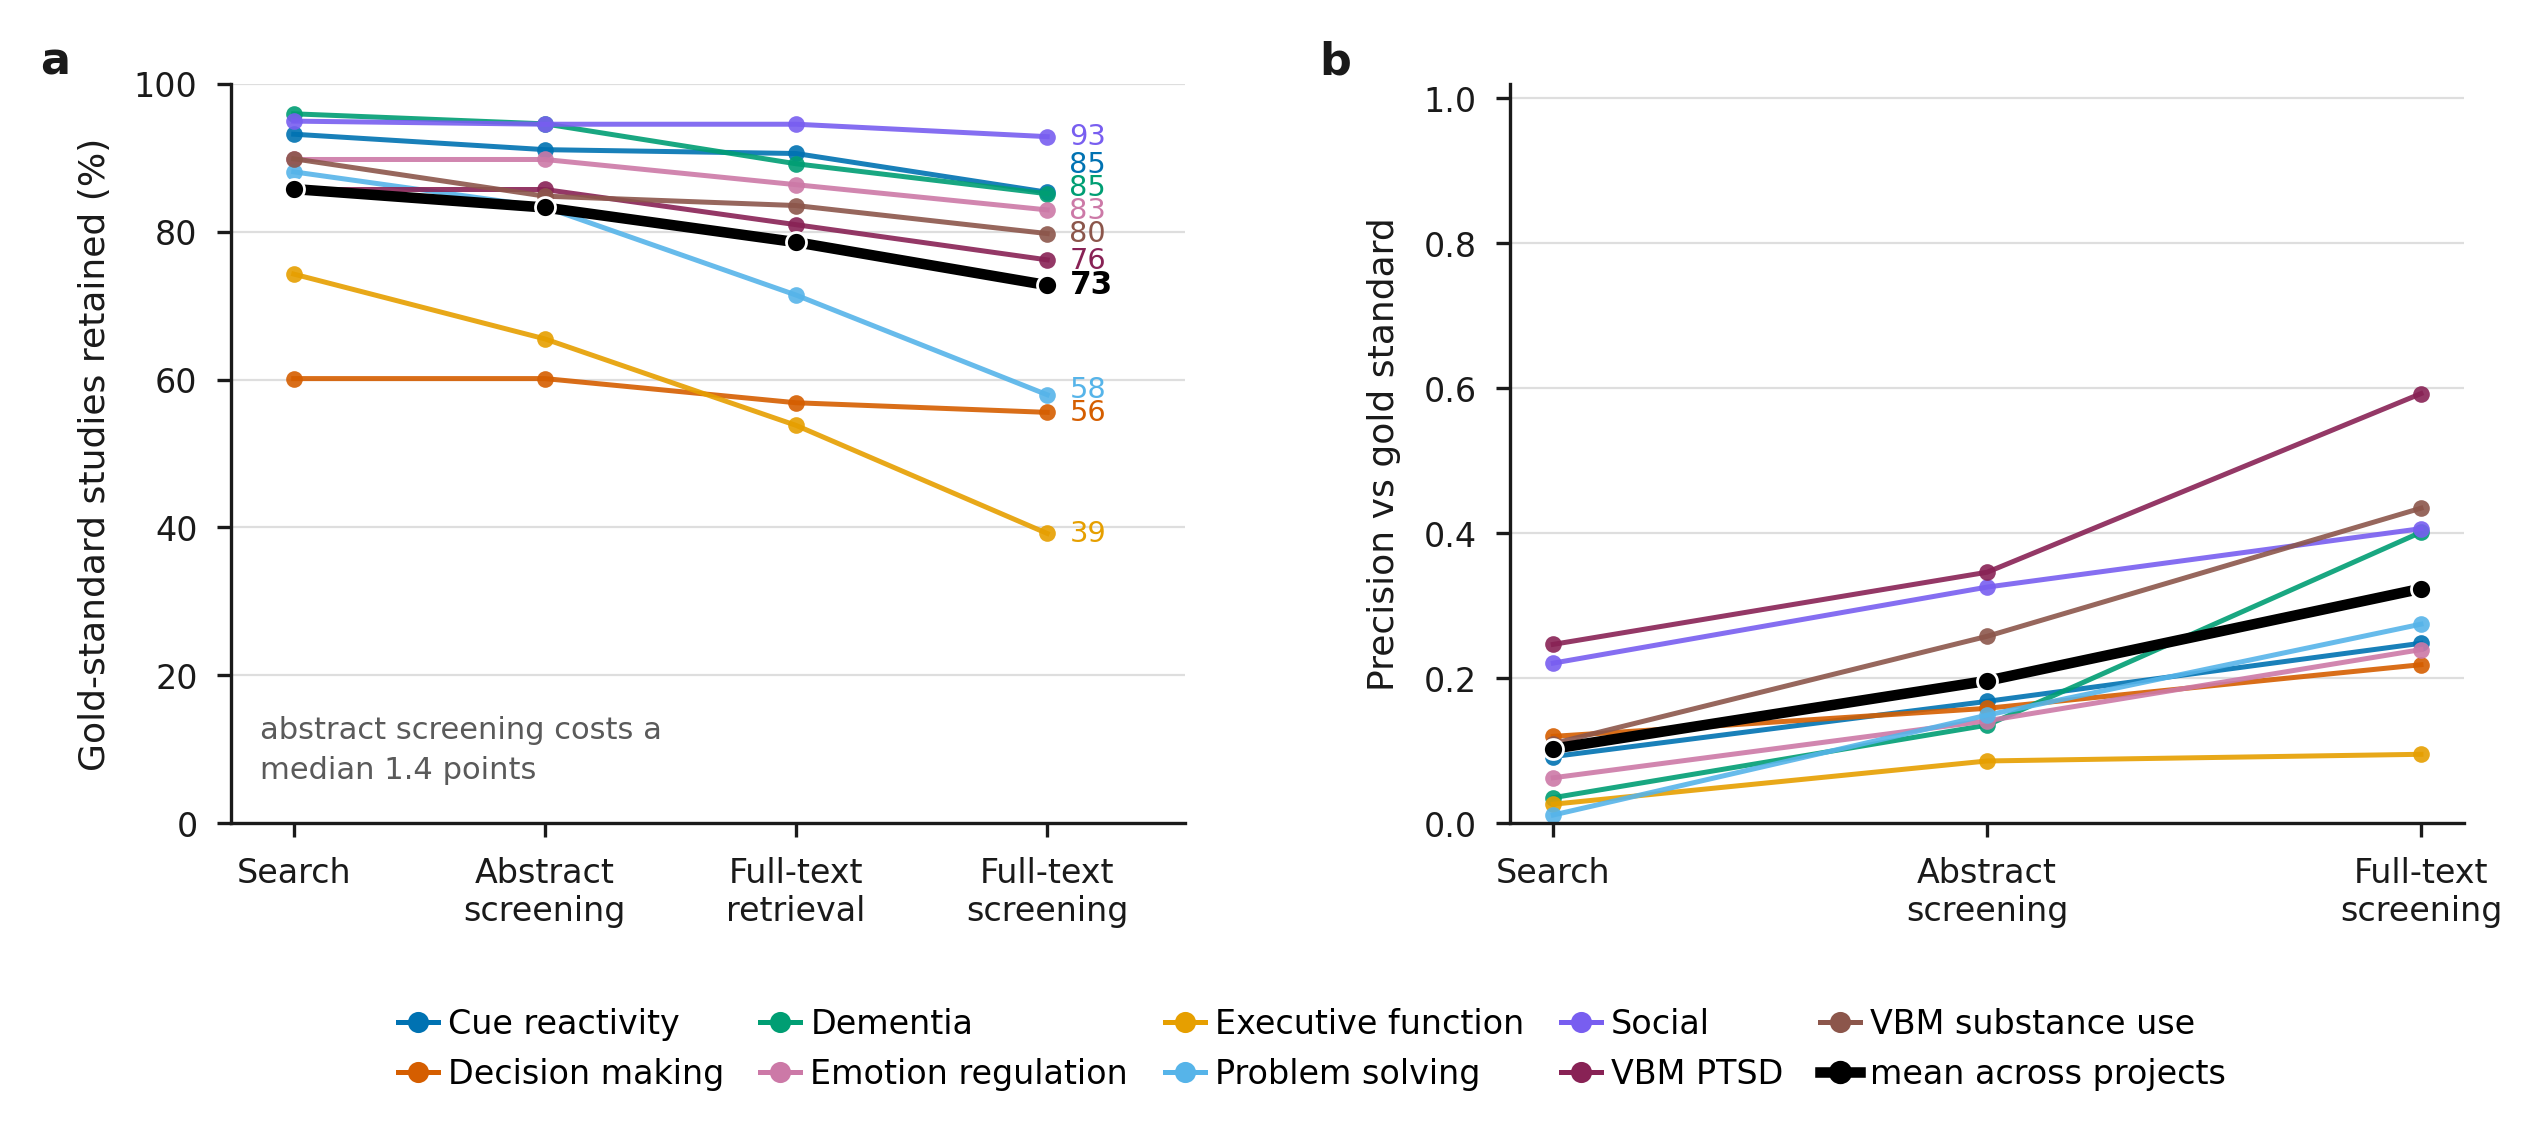
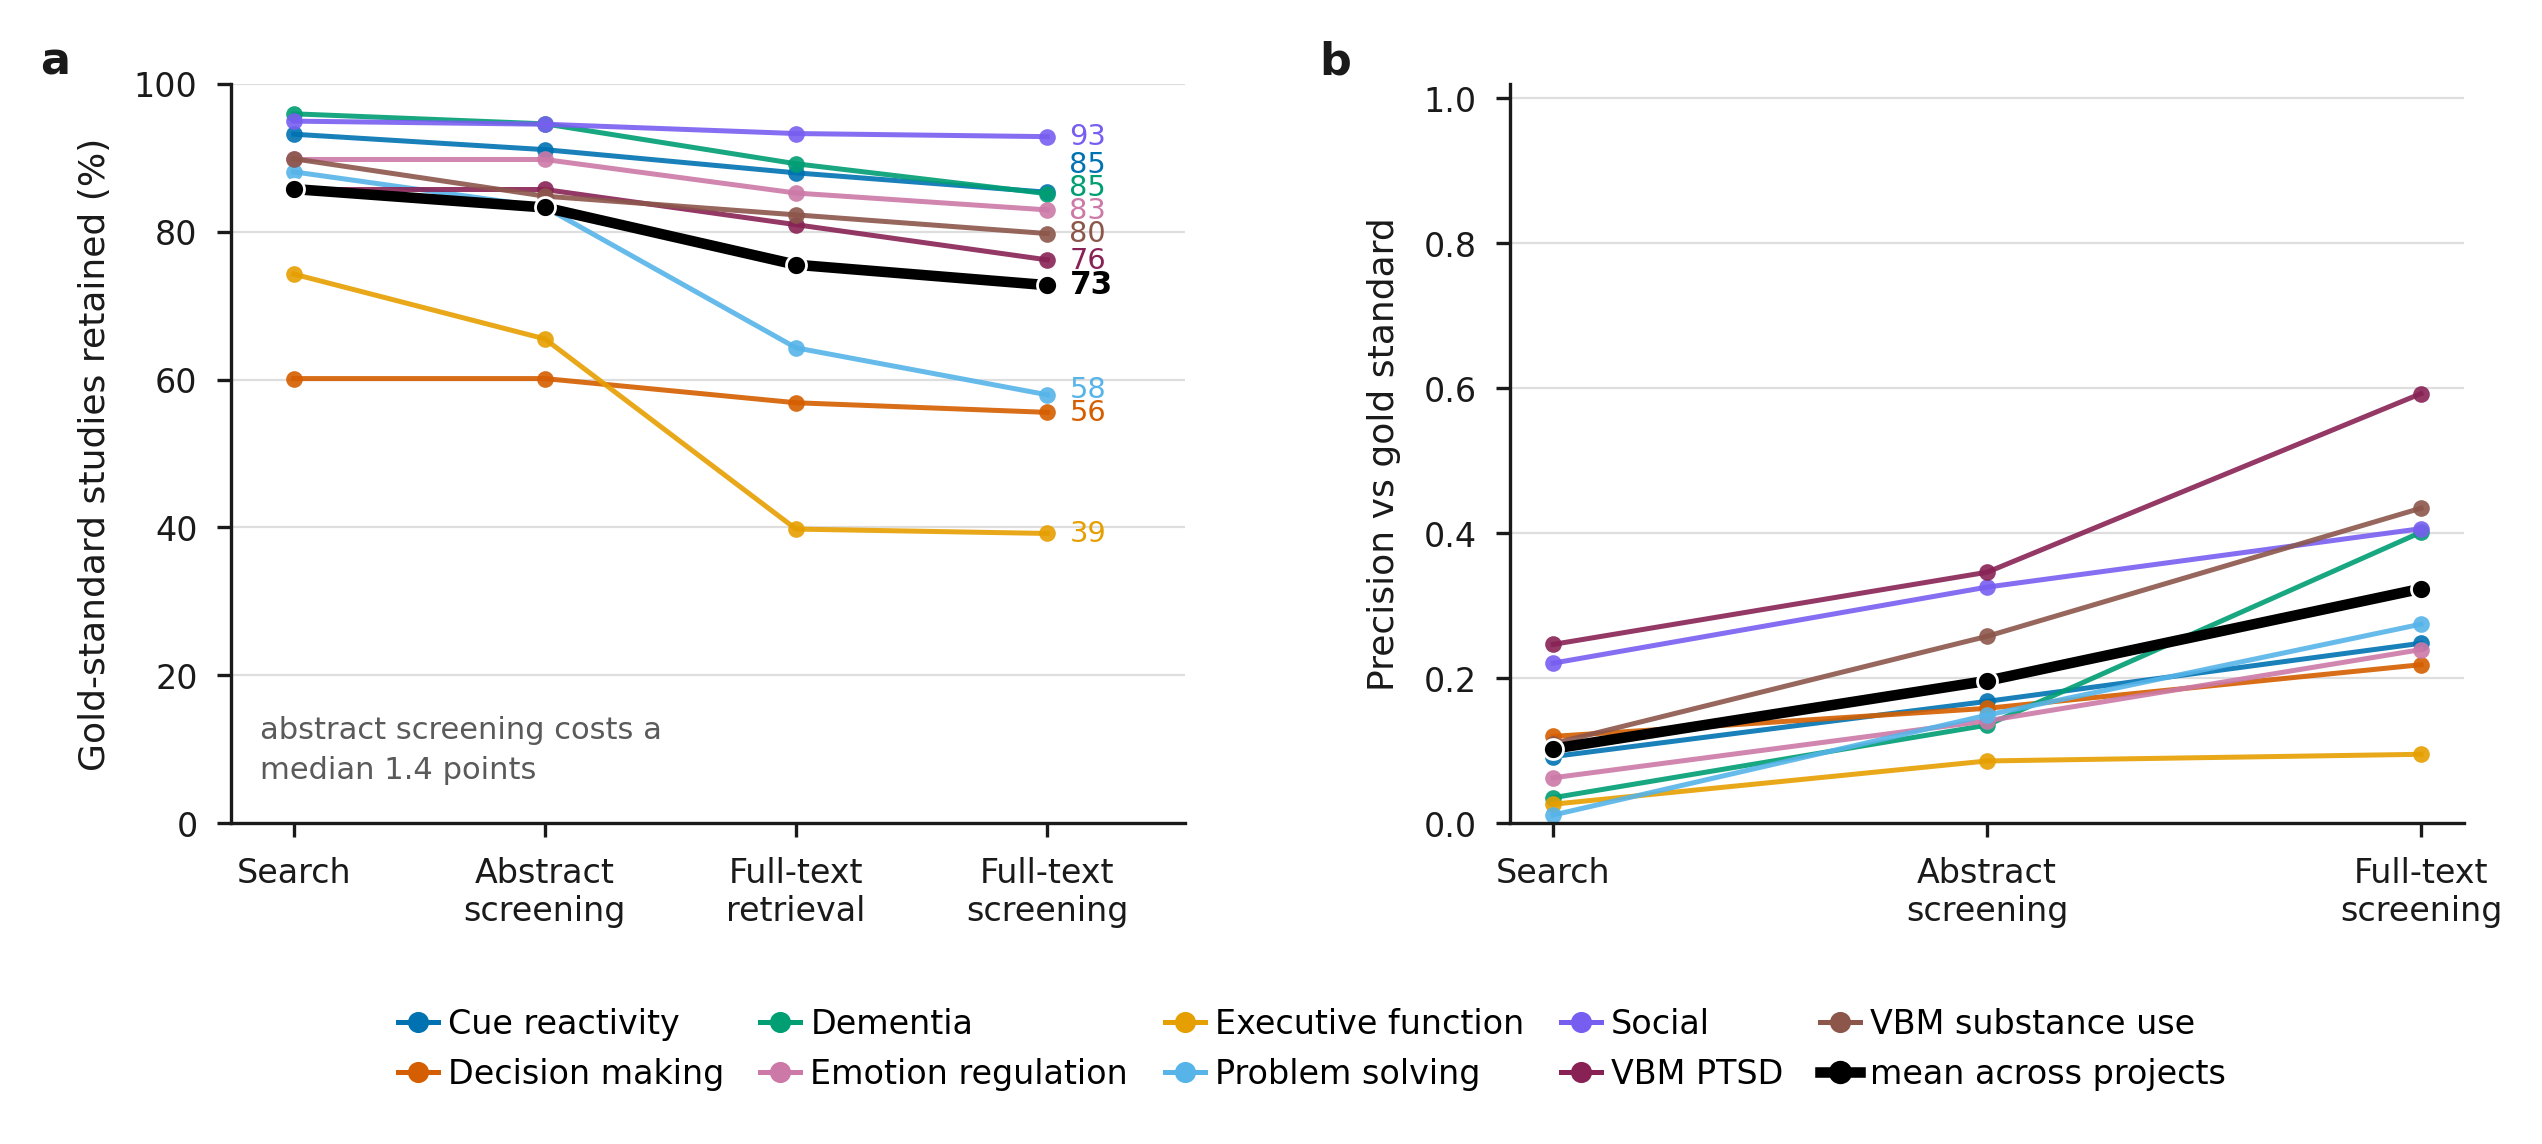
retrieval stage counts usable text, not the availability flag
`fulltext_available` overstates what the full-text screener received. For 43
gold studies across the corpus the flag is true and the screener was handed
title, abstract and metadata only, or hit an API error, recorded
`fulltext_incomplete`, and stated that it could not verify the inclusion
criteria. Those studies had no usable full text, so counting them as retrieved
put a supply failure inside the screening stage -- the exact distinction
compute_gold_survival.py exists to draw.

survivors()["retrieval"] now requires the flag AND the absence of a
`fulltext_incomplete` decision. The raw flag is still returned as
`retrieval_available`, so the split between "no text at all" and "text too thin
to screen" stays reportable and the correction stays auditable.

Marginal loss by stage, in points of gold, before -> after:

  abstract screening    1.4 median,  8.8 max, 2/9 over 5pp   (unchanged)
  full-text retrieval   3.4 -> 4.5 median, 11.9 -> 25.7 max, 3/9 over 5pp
  full-text screening   4.0 -> 2.5 median, 14.6 ->  6.4 max, 3/9 -> 1/9

Retrieval's median loss is now nearly double full-text screening's, which
strengthens the case for keeping them as separate stages. executive_function
loses 25.7pp at retrieval and 0.6pp at full-text screening; before the fix that
read 11.7 and 14.6, which made a retrieval problem look like a screening
problem. It accounts for 24 of the 43; four projects have none.

compute_attainable_recall.py is rewired to take the usable-text set straight
[…]

diff --git a/scripts/compute_attainable_recall.py b/scripts/compute_attainable_recall.py
@@ -22,6 +22,8 @@ wants answered: of the gold studies this stage COULD have kept, how many did it 
     abstract     same as search (no new supply loss)            --
     fulltext     ... minus gold with no usable full text        retrieval failures AND
                                                                 `fulltext_incomplete`
+                 (survivors()["retrieval"] enforces "usable"; the two are split in the CSV
+                  as lost_no_fulltext / lost_fulltext_incomplete for reporting only)
     annotation   ... minus gold that parsed to zero analyses    nothing to annotate
 
 WHY `fulltext_incomplete` COUNTS AS SUPPLY
@@ -70,7 +72,8 @@ from pathlib import Path
 
 REPO_ROOT = Path(__file__).resolve().parent.parent
 sys.path.insert(0, str(Path(__file__).resolve().parent))
-from compute_gold_survival import load_gold, canonical_run, survivors  # noqa: E402
+from compute_gold_survival import (  # noqa: E402
+    load_gold, canonical_run, survivors, incomplete_fulltext_pmids)
 from compute_stage_precision_recall import annotated_pmids  # noqa: E402
 
 STAGES = ["search", "abstract", "fulltext", "annotation"]
@@ -98,37 +101,16 @@ def parsed_pmids(outputs: Path) -> set[str] | None:
     return out or None
 
 
-def incomplete_fulltext_pmids(outputs: Path) -> set[str] | None:
-    """PMIDs the full-text screener saw without usable full text.
-
-    `fulltext_incomplete` means the retriever reported the text as available but delivered
-    title/abstract/metadata only, or errored, so the screener could not check the inclusion
-    criteria and recorded that rather than a judgement. Treating these as rejections blames
-    screening for a retrieval failure noticed one stage late.
-    """
-    path = outputs / "fulltext_screening_results.json"
-    if not path.exists():
-        return None
-    try:
-        rows = json.loads(path.read_text()).get("screening_results")
-    except ValueError:
-        return None
-    if not rows:
-        return None
-    return {str(r.get("study_id")).strip() for r in rows
-            if isinstance(r, dict) and str(r.get("decision")) == "fulltext_incomplete"}
-
-
 def stage_rows(project: str, run: Path, gold: set[str]) -> list[dict]:
     """Attainable-denominator recall for one project, or [] if an artifact is missing."""
     outputs = run / "outputs"
     alive = survivors(outputs)
     search, abstract = alive.get("search"), alive.get("abstract")
     retrieval, fulltext = alive.get("retrieval"), alive.get("fulltext")
+    available = alive.get("retrieval_available")
     parsed, annotated = parsed_pmids(outputs), annotated_pmids(outputs)
-    incomplete = incomplete_fulltext_pmids(outputs)
-    if any(s is None for s in (search, abstract, retrieval, fulltext, parsed, annotated,
-                               incomplete)):
+    if any(s is None for s in (search, abstract, retrieval, available, fulltext, parsed,
+                               annotated)):
         return []
 
     # Cumulative gold survivors, one stage at a time.
@@ -139,18 +121,23 @@ def stage_rows(project: str, run: Path, gold: set[str]) -> list[dict]:
     g_parsed = g_full & parsed
     g_annot = g_full & annotated
 
-    lost_retrieval = len(g_abs) - len(g_retr)          # supply: no full text at all
-    lost_incomplete = len(g_retr & incomplete)         # supply: text too thin to screen
-    lost_parsing = len(g_full) - len(g_parsed)         # supply: nothing to annotate
+    # survivors()["retrieval"] already requires USABLE text, so the two supply failures at this
+    # stage are both inside `lost_retrieval`. They are split out only for reporting -- deriving
+    # the denominator from the split as well would subtract the incomplete studies twice.
+    lost_no_text = len(g_abs) - len(g_abs & available)      # supply: no full text at all
+    lost_incomplete = len(g_abs & available) - len(g_retr)  # supply: text too thin to screen
+    lost_retrieval = len(g_abs) - len(g_retr)               # == the two above
+    lost_parsing = len(g_full) - len(g_parsed)              # supply: nothing to annotate
+    assert lost_retrieval == lost_no_text + lost_incomplete
 
     d_search = d_abs = len(g_search)
-    d_full = d_abs - lost_retrieval - lost_incomplete
+    d_full = d_abs - lost_retrieval
     d_annot = d_full - lost_parsing
 
     per_stage = [
         ("search", len(g_search), d_search, 0),
         ("abstract", len(g_abs), d_abs, 0),
-        ("fulltext", len(g_full), d_full, lost_retrieval + lost_incomplete),
+        ("fulltext", len(g_full), d_full, lost_retrieval),
         ("annotation", len(g_annot), d_annot, lost_parsing),
     ]
     rows = []
@@ -161,6 +148,8 @@ def stage_rows(project: str, run: Path, gold: set[str]) -> list[dict]:
             "n_surviving": surviving,
             "n_attainable": attainable,
             "supply_lost_here": supply_lost,
+            "lost_no_fulltext": lost_no_text if stage == "fulltext" else 0,
+            "lost_fulltext_incomplete": lost_incomplete if stage == "fulltext" else 0,
             "recall_attainable": round(surviving / attainable, 6) if attainable else "",
             "recall_raw": round(surviving / len(gold), 6) if gold else "",
         })

diff --git a/scripts/compute_gold_survival.py b/scripts/compute_gold_survival.py
@@ -21,8 +21,25 @@ for the pipeline's largest loss in several projects.
 
     search      the gold study appeared in the PubMed results at all
     abstract    survived abstract screening
-    retrieval   full text was actually obtained
+    retrieval   full text was actually obtained AND was usable
     fulltext    survived full-text screening
+
+WHAT "USABLE" MEANS, AND WHY IT IS NOT JUST THE AVAILABILITY FLAG
+
+`fulltext_retrieval_results.json` sets `fulltext_available`, and that flag overstates what the
+screener received. In 43 gold studies across the corpus the flag is true and the screener was
+then handed title, abstract and metadata only (or hit an API error), recorded
+`fulltext_incomplete`, and said outright that it could not verify the inclusion criteria. Those
+studies had no usable full text, so counting them as retrieved put a supply failure inside the
+screening stage -- which is the exact distinction this file exists to draw. The retrieval stage
+therefore requires the flag AND the absence of a `fulltext_incomplete` decision.
+
+The effect is concentrated: executive_function alone accounts for 24 of the 43, which is why its
+abstract -> full-text drop read as a screening failure before this was corrected. Four projects
+have none.
+
+`retrieval_available` is also returned, carrying the raw flag, so the split between "no text at
+all" and "text too thin to screen" stays reportable and this correction stays auditable.
 
 Writes reports/gold_survival_by_stage.csv.
 """
@@ -89,6 +106,23 @@ def _read(path: Path) -> dict:
         return {}
 
 
+def incomplete_fulltext_pmids(outputs: Path) -> set[str] | None:
+    """PMIDs the full-text screener saw without usable full text.
+
+    `fulltext_incomplete` is the screener reporting that it received title/abstract/metadata
+    only, or that retrieval errored, so the inclusion criteria could not be checked. It is a
+    retrieval failure surfacing one stage late, not a judgement about the paper.
+    """
+    path = outputs / "fulltext_screening_results.json"
+    if not path.exists():
+        return None
+    rows = _read(path).get("screening_results")
+    if not rows:
+        return None
+    return {str(r.get("study_id")).strip() for r in rows
+            if isinstance(r, dict) and str(r.get("decision")) == "fulltext_incomplete"}
+
+
 def survivors(outputs: Path) -> dict[str, set[str] | None]:
     """PMIDs present after each stage. None where the stage produced no artifact."""
     out: dict[str, set[str] | None] = {}
@@ -105,9 +139,14 @@ def survivors(outputs: Path) -> dict[str, set[str] | None]:
                       if rows else None)
 
     rows = _read(outputs / "fulltext_retrieval_results.json").get("studies_with_fulltext")
-    out["retrieval"] = ({str(r.get("pmid")).strip() for r in rows
-                         if isinstance(r, dict) and r.get("fulltext_available")}
-                        if rows else None)
+    available = ({str(r.get("pmid")).strip() for r in rows
+                  if isinstance(r, dict) and r.get("fulltext_available")}
+                 if rows else None)
+    out["retrieval_available"] = available
+    # Usable text, not merely flagged text -- see the module docstring.
+    incomplete = incomplete_fulltext_pmids(outputs)
+    out["retrieval"] = (available if available is None or incomplete is None
+                        else available - incomplete)
     return out
 
 

diff --git a/NATURE_METHODS_SKELETON.md b/NATURE_METHODS_SKELETON.md
@@ -111,18 +111,27 @@ while precision roughly doubles or triples. Marginal loss by stage, in percentag
 | stage | median | max | projects losing >5pp |
 |---|---|---|---|
 | abstract screening | **1.4** | 8.8 | 2/9 |
-| full-text retrieval | 3.4 | 11.9 | 3/9 |
-| full-text screening | 4.0 | 14.6 | 3/9 |
+| full-text retrieval | 4.5 | 25.7 | 3/9 |
+| full-text screening | **2.5** | 6.4 | 1/9 |
+
+**The retrieval stage counts usable text, not the availability flag.** `fulltext_available` is true
+for 43 gold studies across the corpus that the screener then received as title and abstract only
+(or after an API error), recorded as `fulltext_incomplete`, and explicitly could not evaluate. Those
+are retrieval failures surfacing one stage late. Counting them as retrieved moved a supply failure
+into the screening column and inflated full-text screening's cost from 2.5 to 4.0 median points;
+executive_function alone accounts for 24 of the 43. Corrected 2026-09-10 — see
+`scripts/compute_gold_survival.py`.
 
 **Retrieval is shown as its own stage, not folded into screening.** They fail for different
-reasons — no obtainable full text is a supply problem, a rejection is a judgement — and in several
-projects retrieval is the larger loss. Merging them would blame screening for the pipeline's
-biggest cost.
+reasons — no obtainable full text is a supply problem, a rejection is a judgement. After the
+correction above the separation matters more, not less: retrieval's median loss (4.5pp) is now
+nearly double full-text screening's (2.5pp), and full-text screening exceeds 5pp in only one
+project. Merging them would blame screening for the pipeline's biggest cost.
 
 Seven of nine projects end within 11 points of where their search started. The two exceptions,
-executive function (74% → 39%) and problem solving (88% → 58%), lose most of it at retrieval and
-full-text screening rather than at the abstract stage, and both should be named rather than
-averaged away.
+executive function (74% → 39%) and problem solving (88% → 58%), lose it almost entirely at
+retrieval — 25.7pp and 19.0pp respectively, against 0.6pp and 6.4pp at full-text screening — and
+both should be named rather than averaged away.
 
 **The fixed-pool arm is no longer drawn on Figure 2 — removed 2026-09-09.** It used to appear as
 a dotted overlay on both panels for the three projects (`vN-allstudies`) that have one. Two

diff --git a/PAPER_OUTLINE.md b/PAPER_OUTLINE.md
@@ -74,7 +74,9 @@ that is false. **Post-search stages dominate the loss in 4 of 9 projects** — e
 (7 vs 8). The prediction was made before the cumulative artifact existed and does not survive it.
 The honest version is narrower and still worth having: abstract screening is nearly free, retrieval
 is the largest single loss in several projects, and the search ceiling binds hardest in
-decision_making (40% never found).
+decision_making (40% never found). *Updated 2026-09-10:* with retrieval counting usable text, it is
+the single largest loss in dementia and problem_solving and ties with search in executive_function,
+while full-text screening drops to a 2.5pp median.
 
 **Adjusted recall.** Recall must be reported over gold studies for which the data actually exists —
 full text obtained and coordinates extractable — or it measures corpus availability rather than
@@ -105,8 +107,13 @@ the screener records `fulltext_incomplete` and cannot verify the criteria. Corpu
 `executive_function` is the extreme — 24 of its 25 — which is what made its abstract→full-text drop
 look like a screening failure; its full-text recall is 0.626 with them charged and 0.807 without.
 
-*Consequence for Figure 2:* the `retrieval` stage it plots is optimistic by those 43 studies, since
-it counts availability rather than usable text. Worth fixing or caveating before submission.
+*Fixed for Figure 2, 2026-09-10.* `scripts/compute_gold_survival.py` now requires the availability
+flag **and** the absence of a `fulltext_incomplete` decision, so the `retrieval` stage counts usable
+text. Marginal loss by stage moves to: abstract 1.4pp median, retrieval 4.5pp (was 3.4), full-text
+screening **2.5pp (was 4.0)**. Retrieval's median loss is now nearly double full-text screening's,
+and full-text screening exceeds 5pp in one project rather than three. `executive_function` loses
+25.7pp at retrieval and 0.6pp at full-text screening; before the fix that read 11.7 and 14.6.
+`survivors()` also returns `retrieval_available` with the raw flag so the correction is auditable.
 
 **Judgement losses stay charged.** Only availability leaves the denominator: a study rejected at
 abstract or full-text screening, or parsed and then assigned to no construct, stays in it. This is
